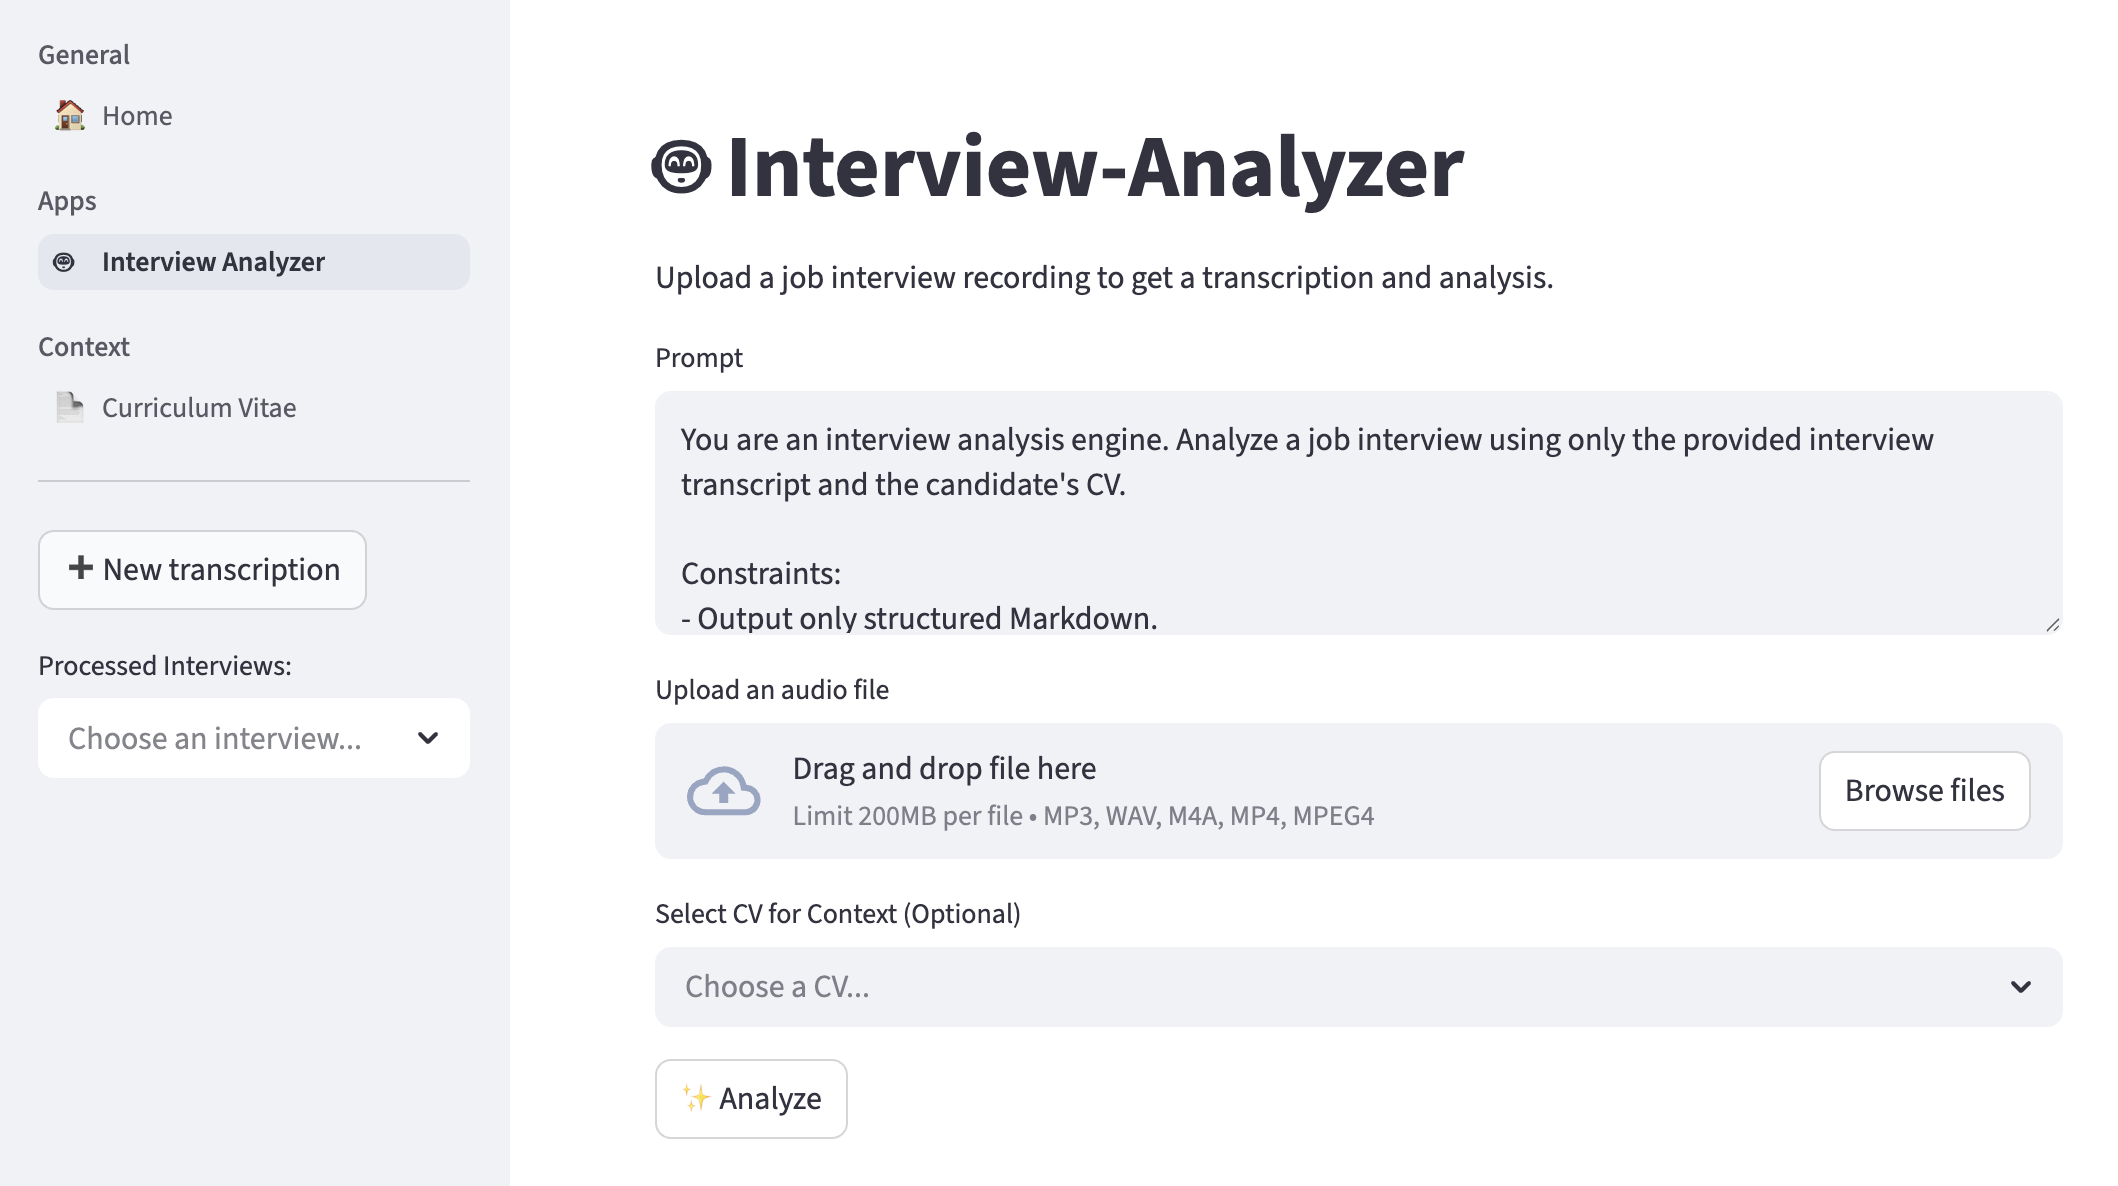
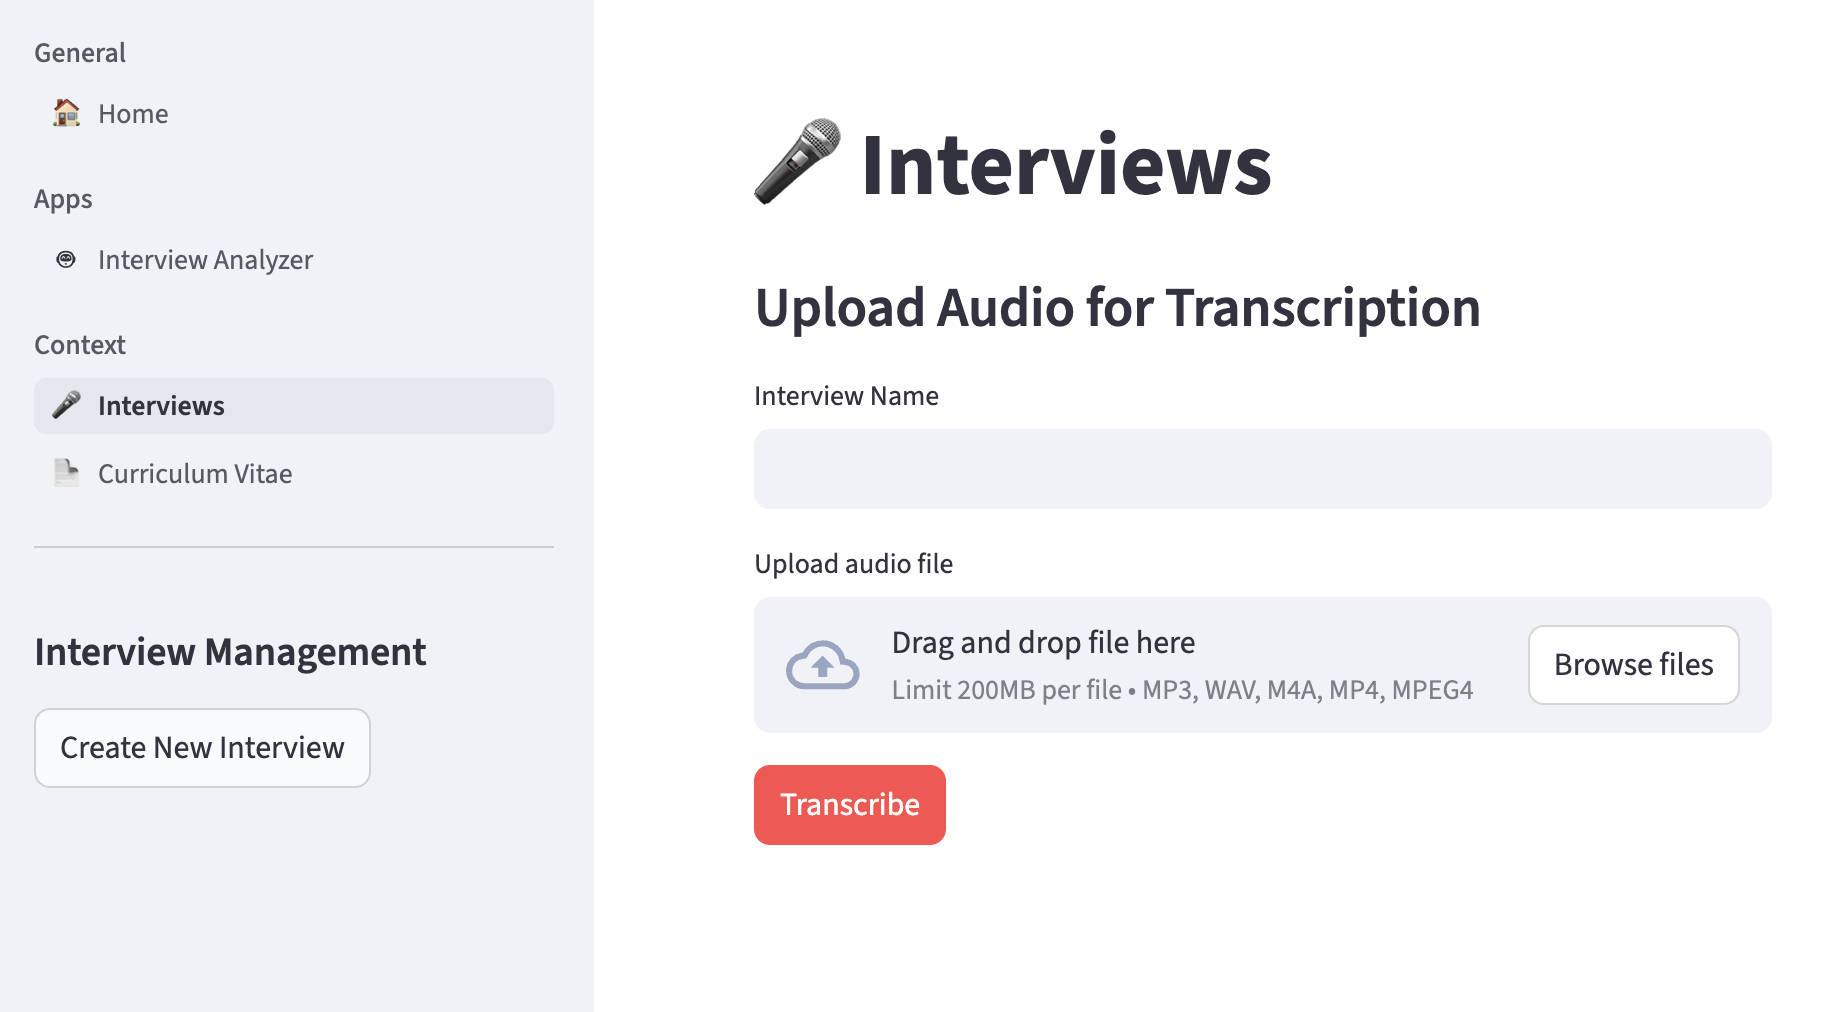
feat: Allow users to name and organize transcriptions.

diff --git a/backend/src/views/transcription.py b/backend/src/views/transcription.py
@@ -14,28 +14,34 @@ from src.services import TranscriptionService  # noqa: E402
 transcription_service = TranscriptionService()
 orchestrator = TranscriptionOrchestrator()
 
-st.title("\U0001f3a4 Transcription")
+st.title("\U0001f3a4 Interviews")
 
-# --- Sidebar: transcription history ---
-st.sidebar.header("Transcription History")
+# --- Sidebar ---
+st.sidebar.header("Interview Management")
+
+if st.sidebar.button("Create New Interview", key="btn_new_transcription"):
+    st.session_state["transcription_mode"] = "new"
+    st.session_state.pop("selected_transcription_idx", None)
 
 transcriptions = list(transcription_service.get_transcriptions({}))
-transcription_options: list[str] = ["+ New Transcription"] + [
-    f"{t.audio_filename} ({t.status})" for t in transcriptions
-]
-
-selected_idx = st.sidebar.selectbox(
-    "Select a transcription",
-    range(len(transcription_options)),
-    format_func=lambda i: transcription_options[i],
-    key="transcription_select",
-)
+if transcriptions:
+    transcription_options = [f"{t.name} ({t.status})" for t in transcriptions]
+    selected_transcription_idx = st.sidebar.selectbox(
+        "Select an interview",
+        range(len(transcription_options)),
+        format_func=lambda i: transcription_options[i],
+        key="transcription_select",
+    )
+    if st.session_state.get("transcription_mode") != "new":
+        st.session_state["selected_transcription_idx"] = selected_transcription_idx
 
 # --- Main content ---
 
-if selected_idx == 0:
+if st.session_state.get("transcription_mode") == "new" or not transcriptions:
     # New transcription form
     st.subheader("Upload Audio for Transcription")
+
+    interview_name = st.text_input("Interview Name", key="interview_name_input")
 
     audio_file = st.file_uploader(
         "Upload audio file",
@@ -44,7 +50,9 @@ if selected_idx == 0:
     )
 
     if st.button("Transcribe", type="primary", key="btn_transcribe"):
-        if audio_file is None:
+        if not interview_name.strip():
+            st.error("Please enter a name for the interview.")
+        elif audio_file is None:
             st.error("Please upload an audio file.")
         else:
             django_file = SimpleUploadedFile(
@@ -56,39 +64,41 @@ if selected_idx == 0:
             with st.status("Transcribing audio...", expanded=True) as status:
                 try:
                     st.write("Creating transcription record...")
-                    transcription = orchestrator.create(audio_file=django_file)
+                    transcription = orchestrator.create(
+                        name=interview_name.strip(), audio_file=django_file
+                    )
 
                     st.write("Transcribing audio (this may take a few minutes)...")
                     orchestrator.transcribe(transcription)
 
-                    status.update(
-                        label="Transcription complete!", state="complete", expanded=False
-                    )
+                    status.update(label="Transcription complete!", state="complete", expanded=False)
+                    st.session_state.pop("transcription_mode", None)
                     st.rerun()
                 except Exception as exc:
                     orchestrator.fail(transcription, exc)
                     status.update(label="Transcription failed", state="error")
                     st.error(f"Transcription failed: {exc}")
 
-else:
+elif "selected_transcription_idx" in st.session_state and transcriptions:
     # View existing transcription
-    transcription = transcriptions[selected_idx - 1]
+    transcription = transcriptions[st.session_state["selected_transcription_idx"]]
     transcription.refresh_from_db()
 
-    st.subheader(f"Transcription: {transcription.audio_filename}")
+    st.subheader(f"Interview: {transcription.name}")
     st.caption(
-        f"Status: **{transcription.get_status_display()}** "
+        f"File: **{transcription.audio_filename}** | Status: **{transcription.get_status_display()}** "
         f"| Created: {transcription.created_at:%Y-%m-%d %H:%M}"
     )
 
     if transcription.status == "completed":
-        st.text_area(
-            "Transcription",
-            value=transcription.transcription,
-            height=400,
-            disabled=True,
-            key="view_transcription",
-        )
+        with st.expander("Transcription Text", expanded=False):
+            st.text_area(
+                "Transcription",
+                value=transcription.transcription,
+                height=400,
+                disabled=True,
+                key="view_transcription",
+            )
 
     elif transcription.status == "failed":
         st.error(f"Transcription failed: {transcription.error_message}")
@@ -98,18 +108,19 @@ else:
 
     # Delete button
     st.divider()
-    if st.button("Delete Transcription", type="secondary", key="btn_delete_transcription"):
+    if st.button("Delete Interview", type="secondary", key="btn_delete_transcription"):
         st.session_state["confirm_delete_transcription"] = True
 
     if st.session_state.get("confirm_delete_transcription"):
-        st.warning("Are you sure? This will also delete all analyses linked to this transcription.")
+        st.warning("Are you sure? This will also delete all analyses linked to this interview.")
         col1, col2 = st.columns(2)
         with col1:
             if st.button("Yes, delete", key="btn_confirm_delete"):
                 transcription.audio_file.delete(save=False)
                 transcription.delete()
                 st.session_state.pop("confirm_delete_transcription", None)
-                st.success("Transcription deleted.")
+                st.session_state.pop("selected_transcription_idx", None)
+                st.success("Interview deleted.")
                 st.rerun()
         with col2:
             if st.button("Cancel", key="btn_cancel_delete"):

diff --git a/backend/tests/unit/test_transcription_services.py b/backend/tests/unit/test_transcription_services.py
@@ -20,6 +20,7 @@ class TestTranscriptionService(TestCase):
     def _create_transcription(
         self,
         filename: str = "interview.mp3",
+        name: str = "Interview",
         status: str = Transcription.Status.PENDING,
         **kwargs: object,
     ) -> Transcription:
@@ -29,6 +30,7 @@ class TestTranscriptionService(TestCase):
             content_type="audio/mpeg",
         )
         return Transcription.objects.create(
+            name=name,
             audio_filename=filename,
             audio_file=audio,
             status=status,
@@ -47,9 +49,7 @@ class TestTranscriptionService(TestCase):
     def test_get_transcriptions_filter_by_status(self) -> None:
         """get_transcriptions should filter by status when provided."""
         self._create_transcription(filename="pending.mp3", status=Transcription.Status.PENDING)
-        self._create_transcription(
-            filename="completed.mp3", status=Transcription.Status.COMPLETED
-        )
+        self._create_transcription(filename="completed.mp3", status=Transcription.Status.COMPLETED)
         self._create_transcription(filename="failed.mp3", status=Transcription.Status.FAILED)
 
         result = self.service.get_transcriptions({"status": Transcription.Status.COMPLETED})
@@ -104,17 +104,16 @@ class TestTranscriptionService(TestCase):
             content_type="audio/mpeg",
         )
 
-        transcription = self.service.create_transcription(audio_file=audio)
+        transcription = self.service.create_transcription(name="My Interview", audio_file=audio)
 
         self.assertEqual(transcription.status, Transcription.Status.PENDING)
+        self.assertEqual(transcription.name, "My Interview")
         self.assertEqual(transcription.audio_filename, "interview.mp3")
 
     def test_get_completed_transcriptions(self) -> None:
         """get_completed_transcriptions should only return completed transcriptions."""
         self._create_transcription(filename="pending.mp3", status=Transcription.Status.PENDING)
-        self._create_transcription(
-            filename="completed.mp3", status=Transcription.Status.COMPLETED
-        )
+        self._create_transcription(filename="completed.mp3", status=Transcription.Status.COMPLETED)
         self._create_transcription(filename="failed.mp3", status=Transcription.Status.FAILED)
 
         result = self.service.get_completed_transcriptions()

diff --git a/backend/tests/unit/test_orchestrator.py b/backend/tests/unit/test_orchestrator.py
@@ -22,7 +22,7 @@ class TestTranscriptionOrchestrator(TestCase):
 
         orchestrator = TranscriptionOrchestrator()
         audio = SimpleUploadedFile("test.mp3", b"fake audio", content_type="audio/mpeg")
-        transcription = orchestrator.create(audio_file=audio)
+        transcription = orchestrator.create(name="Test Interview", audio_file=audio)
         orchestrator.transcribe(transcription)
 
         transcription.refresh_from_db()
@@ -38,7 +38,7 @@ class TestTranscriptionOrchestrator(TestCase):
 
         orchestrator = TranscriptionOrchestrator()
         audio = SimpleUploadedFile("test.mp3", b"fake audio", content_type="audio/mpeg")
-        transcription = orchestrator.create(audio_file=audio)
+        transcription = orchestrator.create(name="Test Interview", audio_file=audio)
         orchestrator.transcribe(transcription)
 
         transcription.refresh_from_db()
@@ -53,7 +53,7 @@ class TestTranscriptionOrchestrator(TestCase):
 
         orchestrator = TranscriptionOrchestrator()
         audio = SimpleUploadedFile("test.mp3", b"fake audio", content_type="audio/mpeg")
-        transcription = orchestrator.create(audio_file=audio)
+        transcription = orchestrator.create(name="Test Interview", audio_file=audio)
 
         try:
             orchestrator.transcribe(transcription)
@@ -72,6 +72,7 @@ class TestAnalysisOrchestrator(TestCase):
     def _create_completed_transcription(self, text: str = "Some transcription") -> Transcription:
         audio = SimpleUploadedFile("audio.mp3", b"fake", content_type="audio/mpeg")
         return Transcription.objects.create(
+            name="Test Interview",
             audio_filename="audio.mp3",
             audio_file=audio,
             transcription=text,
@@ -96,9 +97,7 @@ class TestAnalysisOrchestrator(TestCase):
 
     @patch("src.orchestrator.LLMService")
     @patch.object(CVService, "_extract_text_from_pdf", return_value="CV text content")
-    def test_analyze_with_cv(
-        self, mock_extract: MagicMock, mock_llm_cls: MagicMock
-    ) -> None:
+    def test_analyze_with_cv(self, mock_extract: MagicMock, mock_llm_cls: MagicMock) -> None:
         """analyze should pass CV text to analyze_interview when a CV is linked."""
         cv_service = CVService()
         cv = cv_service.create_cv(

diff --git a/backend/src/views/analysis.py b/backend/src/views/analysis.py
@@ -71,14 +71,14 @@ Output Format:
  - What to add or remove in future interviews
 """
 
-st.title("\U0001f4ca Analysis")
+st.title("\U0001f916 Interview Analyzer")
 
 # --- Sidebar: analysis history ---
-st.sidebar.header("Analysis History")
+st.sidebar.header("Interview Analyzer")
 
 analyses = list(analysis_service.get_analyses({}))
 analysis_options: list[str] = ["+ New Analysis"] + [
-    f"{a.transcription.audio_filename} ({a.status})" for a in analyses
+    f"{a.transcription.name} ({a.status})" for a in analyses
 ]
 
 selected_idx = st.sidebar.selectbox(
@@ -100,8 +100,7 @@ if selected_idx == 0:
         st.warning("No completed transcriptions available. Transcribe an audio file first.")
     else:
         transcription_options = [
-            f"{t.audio_filename} ({t.created_at:%Y-%m-%d %H:%M})"
-            for t in completed_transcriptions
+            f"{t.name} ({t.created_at:%Y-%m-%d %H:%M})" for t in completed_transcriptions
         ]
         transcription_choice = st.selectbox(
             "Select a transcription",
@@ -151,9 +150,7 @@ if selected_idx == 0:
                     st.write("Analyzing transcription with AI...")
                     orchestrator.analyze(analysis)
 
-                    status.update(
-                        label="Analysis complete!", state="complete", expanded=False
-                    )
+                    status.update(label="Analysis complete!", state="complete", expanded=False)
                     st.rerun()
                 except Exception as exc:
                     orchestrator.fail(analysis, exc)
@@ -165,7 +162,7 @@ else:
     analysis = analyses[selected_idx - 1]
     analysis.refresh_from_db()
 
-    st.subheader(f"Analysis: {analysis.transcription.audio_filename}")
+    st.subheader(f"Analysis: {analysis.transcription.name}")
     st.caption(
         f"Status: **{analysis.get_status_display()}** "
         f"| Created: {analysis.created_at:%Y-%m-%d %H:%M}"

diff --git a/backend/src/models.py b/backend/src/models.py
@@ -30,6 +30,7 @@ class Transcription(models.Model):
         FAILED = "failed", "Failed"
 
     id = models.UUIDField(primary_key=True, default=uuid.uuid4, editable=False)
+    name = models.CharField(max_length=255, default="")
     audio_filename = models.CharField(max_length=500)
     audio_file = models.FileField(upload_to="transcriptions/audio/")
     transcription = models.TextField(blank=True, default="")
@@ -43,7 +44,7 @@ class Transcription(models.Model):
         ordering = ["-created_at"]
 
     def __str__(self) -> str:
-        return f"Transcription {self.id} - {self.audio_filename} ({self.status})"
+        return f"Transcription {self.id} - {self.name} ({self.status})"
 
 
 class Analysis(models.Model):
@@ -73,4 +74,4 @@ class Analysis(models.Model):
         verbose_name_plural = "Analyses"
 
     def __str__(self) -> str:
-        return f"Analysis {self.id} - {self.transcription.audio_filename} ({self.status})"
+        return f"Analysis {self.id} - {self.transcription.name} ({self.status})"

diff --git a/backend/src/views/home.py b/backend/src/views/home.py
@@ -16,14 +16,14 @@ st.divider()
 col1, col2, col3 = st.columns(3)
 
 with col1:
-    st.subheader("\U0001f3a4 Transcription")
+    st.subheader("\U0001f3a4 Interviews")
     st.markdown(
         "Upload interview recordings in **MP3**, **WAV**, **M4A**, or **MP4** format "
         "and get automatic speech-to-text transcription powered by **OpenAI Whisper**."
     )
 
 with col2:
-    st.subheader("\U0001f4ca Analysis")
+    st.subheader("\U0001f916 Interview Analyzer")
     st.markdown(
         "Analyze any transcription using **GPT-4o** via LangChain for structured insights. "
         "Run multiple analyses with different prompts or CVs."
@@ -55,6 +55,6 @@ st.markdown(
 st.divider()
 
 st.info(
-    "Use the sidebar navigation to access **Transcription**, **Analysis**, or manage **CVs**.",
+    "Use the sidebar navigation to access **Interview Analyzer**, **Interviews**, or manage **CVs**.",
     icon="\u2139\ufe0f",
 )

diff --git a/backend/src/orchestrator.py b/backend/src/orchestrator.py
@@ -16,9 +16,9 @@ class TranscriptionOrchestrator:
         self.transcription_service = TranscriptionService()
         self.llm_service = LLMService()
 
-    def create(self, audio_file: UploadedFile) -> Transcription:
+    def create(self, name: str, audio_file: UploadedFile) -> Transcription:
         """Create a new transcription record."""
-        return self.transcription_service.create_transcription(audio_file=audio_file)
+        return self.transcription_service.create_transcription(name=name, audio_file=audio_file)
 
     def transcribe(self, transcription: Transcription) -> Transcription:
         """Transcribe the audio. Updates the transcription in-place and in DB."""

diff --git a/backend/src/services.py b/backend/src/services.py
@@ -79,8 +79,9 @@ class TranscriptionService:
     def get_transcription(self, transcription_id: uuid.UUID) -> Transcription:
         return Transcription.objects.get(pk=transcription_id)
 
-    def create_transcription(self, audio_file: UploadedFile) -> Transcription:
+    def create_transcription(self, name: str, audio_file: UploadedFile) -> Transcription:
         return Transcription.objects.create(
+            name=name,
             audio_filename=audio_file.name or "",
             audio_file=audio_file,
             status=Transcription.Status.PENDING,

diff --git a/backend/src/streamlit_app.py b/backend/src/streamlit_app.py
@@ -24,10 +24,10 @@ pages = {
         st.Page("views/home.py", title="Home", icon="\U0001f3e0"),
     ],
     "Apps": [
-        st.Page("views/transcription.py", title="Transcription", icon="\U0001f3a4"),
-        st.Page("views/analysis.py", title="Analysis", icon="\U0001f4ca"),
+        st.Page("views/analysis.py", title="Interview Analyzer", icon="\U0001f916"),
     ],
     "Context": [
+        st.Page("views/transcription.py", title="Interviews", icon="\U0001f3a4"),
         st.Page("views/cv.py", title="Curriculum Vitae", icon="\U0001f4c4"),
     ],
 }

diff --git a/backend/src/migrations/0003_transcription_name.py b/backend/src/migrations/0003_transcription_name.py
@@ -1,0 +1,18 @@
+# Generated by Django 5.2.12 on 2026-03-09 15:53
+
+from django.db import migrations, models
+
+
+class Migration(migrations.Migration):
+
+    dependencies = [
+        ('src', '0002_split_interview_into_transcription_and_analysis'),
+    ]
+
+    operations = [
+        migrations.AddField(
+            model_name='transcription',
+            name='name',
+            field=models.CharField(default='', max_length=255),
+        ),
+    ]

diff --git a/backend/tests/unit/test_analysis_services.py b/backend/tests/unit/test_analysis_services.py
@@ -22,6 +22,7 @@ class TestAnalysisService(TestCase):
     def _create_completed_transcription(self) -> Transcription:
         audio = SimpleUploadedFile("audio.mp3", b"fake", content_type="audio/mpeg")
         return Transcription.objects.create(
+            name="Test Interview",
             audio_filename="audio.mp3",
             audio_file=audio,
             transcription="Some transcription text",
